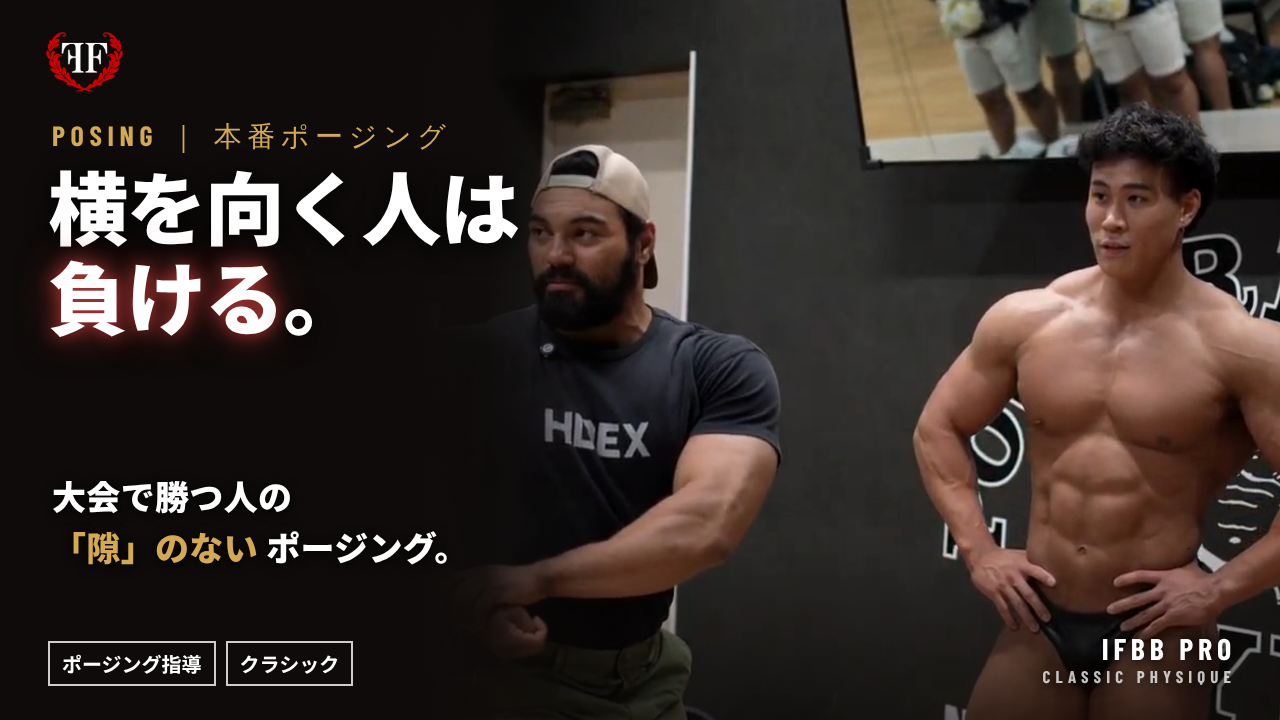
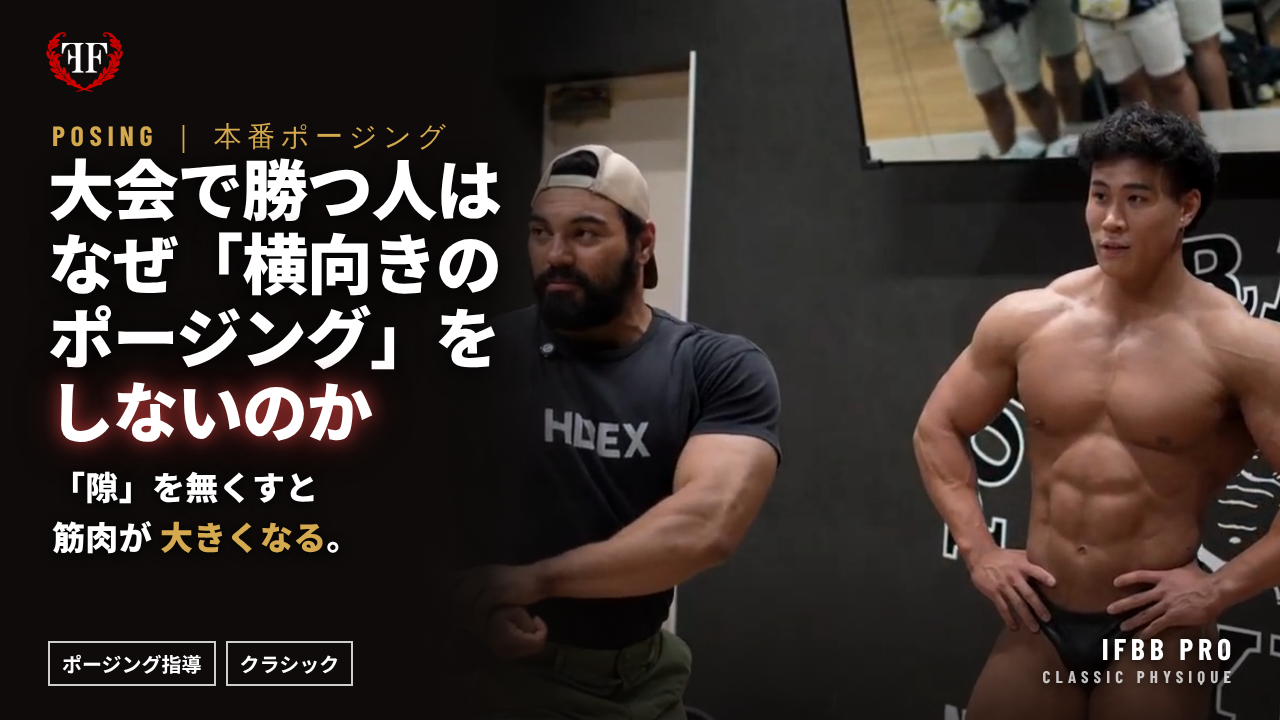
Posing thumbnail: final with both lines (#153)
* UPPER DAY thumbnails: soften hook to Felipe's voice

Claude-Session: https://claude.ai/code/session_01HRty6kL8VRnpLHHHzSF3iS

* UPPER DAY thumbnails: keep the hook line on one row

Claude-Session: https://claude.ai/code/session_01HRty6kL8VRnpLHHHzSF3iS

* UPPER DAY thumbnails: hook label on one line

Claude-Session: https://claude.ai/code/session_01HRty6kL8VRnpLHHHzSF3iS

* UPPER DAY thumbnails on the brand guide: FF black base, white type, laurel red as the single accent, gym press photo; add visual identity PDF

Claude-Session: https://claude.ai/code/session_01HRty6kL8VRnpLHHHzSF3iS

* UPPER DAY thumbnail: three promise-led headline variants on the brand template

Claude-Session: https://claude.ai/code/session_01HRty6kL8VRnpLHHHzSF3iS

* Add post-live story images (thanks + next live 11/23) and story template

Claude-Session: https://claude.ai/code/session_01HRty6kL8VRnpLHHHzSF3iS

* Stories: stage photo, text in the lower third, date version with large 11.23

Claude-Session: https://claude.ai/code/session_01HRty6kL8VRnpLHHHzSF3iS

* Add 4:5 static ad creative (D-Static) on the brand template

Claude-Session: https://claude.ai/code/session_01HRty6kL8VRnpLHHHzSF3iS

* Add 7-slide Instagram carousel: overtraining recovery (brand template)

Claude-Session: https://claude.ai/code/session_01HRty6kL8VRnpLHHHzSF3iS

* Add free-lesson page (/lesson) with J3-style unlock flow, ad covers and video script
[…]

Changed region(s): [[0.0312, 0.2139, 0.4062, 0.7944]]

diff --git a/assets/yt/posing-thumb-template.html b/assets/yt/posing-thumb-template.html
@@ -10,9 +10,9 @@ body{font-family:"NS",sans-serif;color:#fff;position:relative}
 .part{position:absolute;right:44px;bottom:118px;background:#9C302E;font-family:"BC",sans-serif;font-size:26px;letter-spacing:.1em;padding:8px 16px;line-height:1;display:flex;align-items:baseline;gap:8px}
 .part b{font-size:40px;line-height:.9}
 .lbl{position:absolute;left:52px;top:118px;font-family:"BC",sans-serif;font-size:28px;letter-spacing:.2em;color:#D4A94F}
-.h{position:absolute;left:48px;top:160px;font-size:80px;font-weight:900;line-height:1.12;letter-spacing:-.02em;white-space:nowrap;text-shadow:0 4px 24px rgba(0,0,0,.9)}
+.h{position:absolute;left:48px;top:150px;font-size:66px;font-weight:900;line-height:1.12;letter-spacing:-.02em;white-space:nowrap;text-shadow:0 4px 24px rgba(0,0,0,.9)}
 .h em{font-style:normal;color:#fff;text-shadow:0 0 18px rgba(185,58,56,.95),0 0 40px rgba(185,58,56,.6),0 4px 24px rgba(0,0,0,.8)}
-.s{position:absolute;left:52px;top:470px;font-size:34px;line-height:1.5;font-weight:900;color:#fff;letter-spacing:.01em;text-shadow:0 2px 12px rgba(0,0,0,.9)}
+.s{position:absolute;left:52px;top:462px;font-size:33px;line-height:1.5;font-weight:900;color:#fff;letter-spacing:.01em;text-shadow:0 2px 12px rgba(0,0,0,.9)}
 .s b{color:#D4A94F}
 .tag{position:absolute;left:48px;bottom:34px;display:flex;gap:10px}
 .tag span{font-size:20px;font-weight:700;border:2px solid rgba(255,255,255,.8);padding:6px 12px}
@@ -22,8 +22,8 @@ body{font-family:"NS",sans-serif;color:#fff;position:relative}
 <div class="bg"></div><div class="fade"></div>
 <img class="logo" src="logo.png" alt="">
 <p class="lbl">POSING ｜ 本番ポージング</p>
-<p class="h">横を向く人は<br><em>負ける</em>。</p>
-<p class="s">大会で勝つ人の<br><b>「隙」のない</b> ポージング。</p>
+<p class="h">大会で勝つ人は<br>なぜ「横向きの<br>ポージング」を<br><em>しないのか</em></p>
+<p class="s">「隙」を無くすと<br>筋肉が <b>大きくなる</b>。</p>
 <div class="tag"><span>ポージング指導</span><span>クラシック</span></div>
 <p class="pro">IFBB PRO<small>CLASSIC PHYSIQUE</small></p>
 </body></html>
